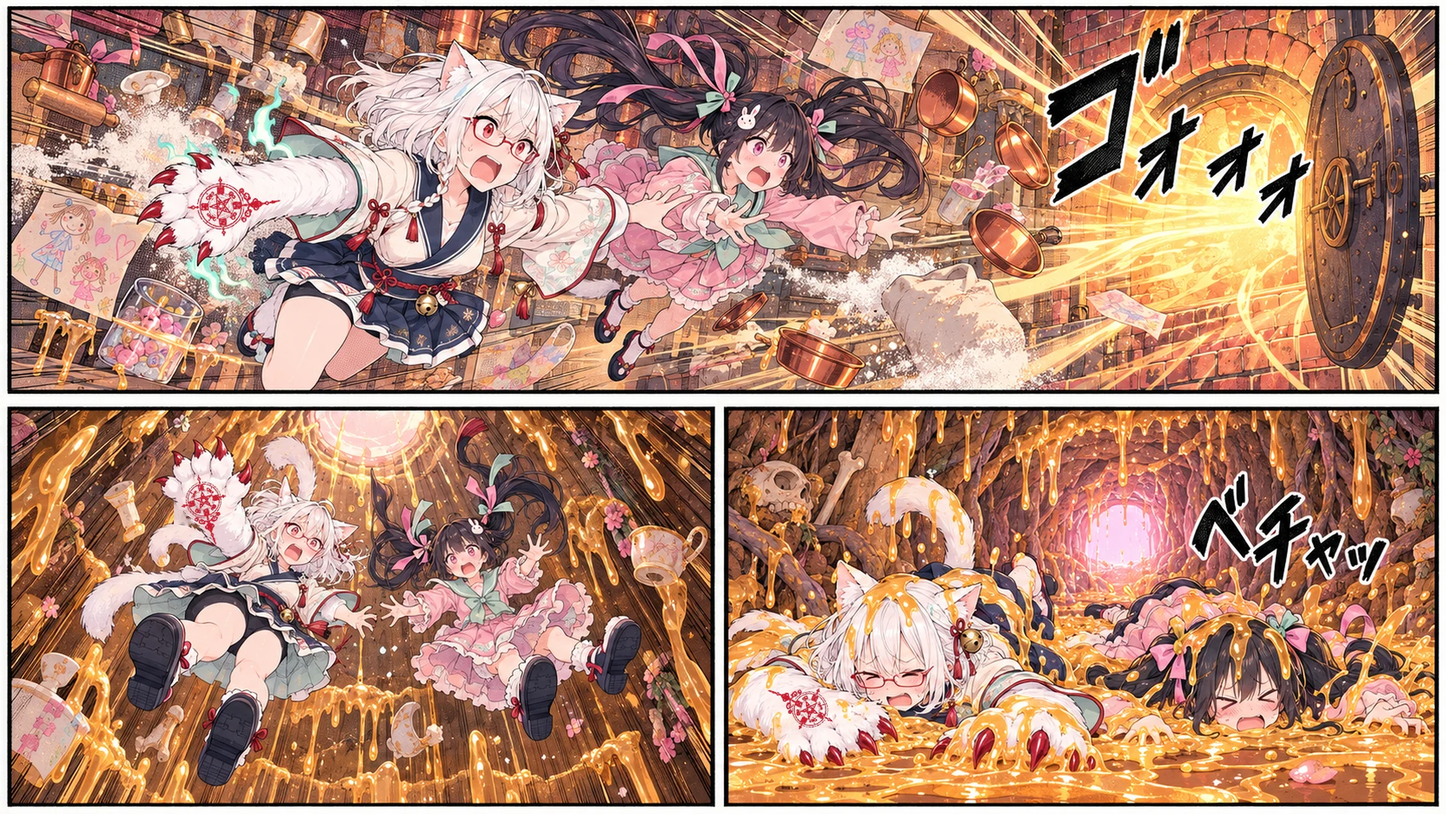
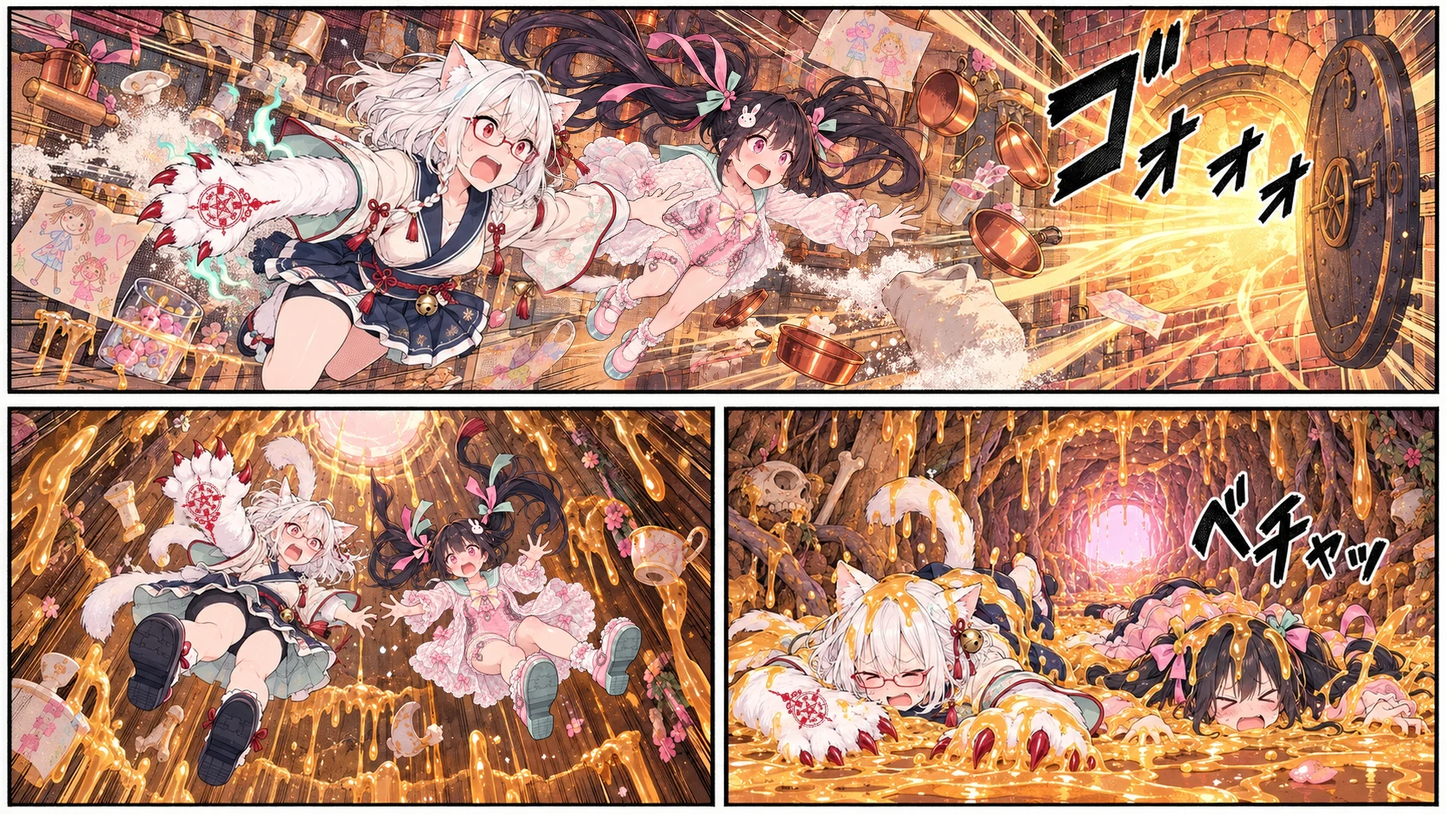
Batch 17 item 5: the gun girl in her own outfit on episode 1's comic pages (R60: 13 spots redrawn after her character sheet, pasted back over her box only)

diff --git a/tools/rounds/r60_import.py b/tools/rounds/r60_import.py
@@ -1,0 +1,57 @@
+"""Round 60 (tools/rounds/job_specs60.py): the gun girl redrawn in her own outfit on episode 1's comic pages. Each picked try is scaled
+back onto its crop and pasted over HER box only (feathered inward, so nothing outside her box changes: the cat paw's canonical seals,
+lettering, panel borders stay as they were); the PROTECT boxes inside hers keep the old pixels too. The pages are written straight
+over the game's comic/ep1p_<page>.webp, always starting from the pages as they were before this round (art/raw/r60/orig_*).
+usage: python -I tools/rounds/r60_import.py [--preview out_dir]   (preview: writes the pages as PNG there instead)"""
+import sys, pathlib, json
+import numpy as np
+from PIL import Image, ImageFilter
+sys.path[:0] = [str(pathlib.Path(__file__).resolve().parent)]
+from job_specs60 import FIX, PROTECT, boxes, panel_box, RAW, PAGES
+
+PICK = {"turn_0": "c", "photo_0": "a", "web_0": "b", "web_2": "a", "nursery_0": "c", "fall_0": "b", "fall_1": "b", "studio_0": "c",
+        "studio_1": "b", "merge_0": "a", "merge_3": "a", "boss_0": "a", "boss_2": "b"}
+FEATHER = 0.05   # of her box's smaller side
+
+
+def mask_for(name, crop):
+    (cx0, cy0, cx1, cy1), (hx0, hy0, hx1, hy1) = crop, boxes(name)[1]
+    w, h = cx1 - cx0, cy1 - cy0
+    page, idx, _ = FIX[name]
+    X0, Y0, X1, Y1 = panel_box(page, idx); pw, ph = X1 - X0, Y1 - Y0
+    m = Image.new("L", (w, h), 0)
+    f = max(4, round(FEATHER * min(hx1 - hx0, hy1 - hy0)))
+    # (no feather on a side that lies on the panel's edge: the old picture would show through there)
+    e = [0 if abs(hx0 - X0) < 3 else f, 0 if abs(hy0 - Y0) < 3 else f, 0 if abs(hx1 - X1) < 3 else f, 0 if abs(hy1 - Y1) < 3 else f]
+    inner = Image.new("L", (hx1 - hx0 - e[0] - e[2], hy1 - hy0 - e[1] - e[3]), 255)
+    m.paste(inner, (hx0 - cx0 + e[0], hy0 - cy0 + e[1]))
+    m = m.filter(ImageFilter.GaussianBlur(f / 2))
+    a = np.asarray(m).astype(np.float32) / 255
+    # the blur softens the panel-edge sides too: there, full strength out to the edge
+    if not e[0]: a[:, :max(0, hx0 - cx0) + f] = np.maximum(a[:, :max(0, hx0 - cx0) + f], (np.arange(h)[:, None] >= hy0 - cy0 + e[1]) & (np.arange(h)[:, None] < hy1 - cy0 - e[3]))
+    if not e[3]: a[hy1 - cy0 - f:hy1 - cy0, :] = np.maximum(a[hy1 - cy0 - f:hy1 - cy0, :], ((np.arange(w)[None, :] >= hx0 - cx0 + e[0]) & (np.arange(w)[None, :] < hx1 - cx0 - e[2])).astype(np.float32))
+    if not e[2]: a[:, hx1 - cx0 - f:hx1 - cx0] = np.maximum(a[:, hx1 - cx0 - f:hx1 - cx0], ((np.arange(h)[:, None] >= hy0 - cy0 + e[1]) & (np.arange(h)[:, None] < hy1 - cy0 - e[3])).astype(np.float32))
+    if not e[1]: a[hy0 - cy0:hy0 - cy0 + f, :] = np.maximum(a[hy0 - cy0:hy0 - cy0 + f, :], ((np.arange(w)[None, :] >= hx0 - cx0 + e[0]) & (np.arange(w)[None, :] < hx1 - cx0 - e[2])).astype(np.float32))
+    for (a0, b0, a1, b1) in PROTECT.get(name, []):
+        px0, py0, px1, py1 = X0 + a0 * pw - cx0, Y0 + b0 * ph - cy0, X0 + a1 * pw - cx0, Y0 + b1 * ph - cy0
+        a[max(0, int(py0)):int(py1), max(0, int(px0)):int(px1)] = 0
+    return a
+
+
+if __name__ == "__main__":
+    prev = sys.argv[sys.argv.index("--preview") + 1] if "--preview" in sys.argv else None
+    pages = {}
+    for name, v in PICK.items():
+        if not v: continue
+        page = FIX[name][0]
+        if page not in pages: pages[page] = np.asarray(Image.open(RAW / f"orig_ep1p_{page}.webp").convert("RGB")).astype(np.float32)   # (the page before this round)
+        crop, _ = boxes(name)
+        new = np.asarray(Image.open(RAW / f"{name}_{v}.png").convert("RGB").resize((crop[2] - crop[0], crop[3] - crop[1]), Image.LANCZOS)).astype(np.float32)
+        a = mask_for(name, crop)[..., None]
+        P = pages[page]; region = P[crop[1]:crop[3], crop[0]:crop[2]]
+        P[crop[1]:crop[3], crop[0]:crop[2]] = region * (1 - a) + new * a
+        print(name, v, crop)
+    for page, P in pages.items():
+        im = Image.fromarray(P.clip(0, 255).astype(np.uint8))
+        if prev: pathlib.Path(prev).mkdir(parents=True, exist_ok=True); im.save(pathlib.Path(prev) / f"ep1p_{page}.png"); continue
+        im.save(PAGES / f"ep1p_{page}.webp", quality=88, method=6); print("->", f"comic/ep1p_{page}.webp")

diff --git a/docs/ART.md b/docs/ART.md
@@ -8,7 +8,7 @@
   3. `python -I tools/rounds/rNN_import.py` → 进 `public/content/base/assets/` 和 `manifest.json`。
 - 被拒（`*.refused.txt`）的常见原因：
   - 地雷妹设计稿的半透明粉色连衣裙 + "流口水、脸红、踢腿"之类的描述，会触发安全过滤。
-  - 改法：去掉设计稿参考，写成"粉色荷叶边校服衬衫 + 薄荷水手领，fully clothed"，语气写 wholesome。
+  - 以前的改法是去掉设计稿参考、写成"粉色荷叶边校服衬衫 + 裙子"，结果漫画里她的衣服和设定不符（2026-10-18 用户第十七批）。**现在一律带上设定图**（`art/ref/pink_sheet.png` + `pink_poses.png`），衣服按 `tools/rounds/job_specs60.py` 的 `OUTFIT` 写（粉色连体衣 + 敞开的白色蕾丝长外套 + 薄荷水手领 + 黄色大蝴蝶结 + 腿环 + 白短袜 + 薄荷透明底的粉色厚底鞋，光腿，不是裙子、不是长袖衬衫；cute / wholesome / fully covered），每处多抽几张：R60 里 39 张被拒 7 张，其余都对得上设定。
 - Codex 有时会把图放大或挪位：用 `tools/fit_cutout.py` 搜缩放和偏移，对回参考图。
 - **怎么给 Codex 下要求**（2026-10-17 用户："Codex 是弱智的，你需要很明确、很强硬地给建议"）：
   - 把视角、构图、轮廓、比例、什么必须有、什么绝对不许有，一条条写死，不留"自由发挥"；
@@ -113,7 +113,7 @@
   - R32：掩体 12 种、贴花 24 个、六种小怪各 2 个新造型；
   - R33：战斗 HUD 修订效果图（等用户确认）；
   - R34：R23 三张小怪表去掉特效；
-  - R43：新 Boss「？？？」五阶段动作表（`boss/qq_*`）、四种新杂鱼各 3 造型（椅子蜈蚣 / 课本蛾 / 挂钟女 / 灭火器女妖）、飞行物、克系存钱罐（`item/pig`）、异变走廊（`st3/*_x`）、新开场漫画页；R44：打断 / 躲 / 击落的字和图形（`ui/wi_* wh_* ws_*`）和屏幕边缘饰条；R45：新 Boss 出场页、结尾页（格子手工定）；R46：金色靶心准星（`ui/ss_*`）、红色危险准星（`ui/sh_*`）；R47：四页漫画重画（规整方格、气泡 / 越肩镜头；用开场 c、中场 a、Boss b、结尾 c，`tools/rounds/r47_import.py`）；R48：纹身花纹边框和闪现字（用户否了：Codex 的字太丑，没进内容包）；R49：结算界面漫画杂志页效果图；R50：闪避 LED 警示条 12 种样式设计稿（游戏里程序画点阵，不用 Codex 的字）；R52：书包页四种风格方案（按 `tools/rounds/bag_wireframe.py` 的线框，无字）；R51：结算页插画（封面、两人方头像、存钱罐，全部无字，`tools/rounds/r51_import.py [a|b]` 导入；封面咒印 seal_fix 登记 res_cover_a / b）；R59：选关中间的大关小卡（序章 a、占位 a，第 1 话用参考图原来那张；`tools/rounds/r59_import.py` 把画裁成竖条、套进第 1 话那张卡的形状和锯齿白边，再按每章的颜色重新上色：灰度映射到暗 → 中 → 亮三色）；R58：第 1 话通关插画（用 c：另两张身上白色奶油滴太多，容易被误读）和四张失败插画（ko b、dragged b、flag a、loom a），同样无字、咒印标准化（`seal_fix.py r58_*`），`tools/rounds/r58_import.py` 导入成 `res/cover_ep1`、`res/lose_1..4`（一步最多 5 张参考图，超了工具直接拒）；
+  - R43：新 Boss「？？？」五阶段动作表（`boss/qq_*`）、四种新杂鱼各 3 造型（椅子蜈蚣 / 课本蛾 / 挂钟女 / 灭火器女妖）、飞行物、克系存钱罐（`item/pig`）、异变走廊（`st3/*_x`）、新开场漫画页；R44：打断 / 躲 / 击落的字和图形（`ui/wi_* wh_* ws_*`）和屏幕边缘饰条；R45：新 Boss 出场页、结尾页（格子手工定）；R46：金色靶心准星（`ui/ss_*`）、红色危险准星（`ui/sh_*`）；R47：四页漫画重画（规整方格、气泡 / 越肩镜头；用开场 c、中场 a、Boss b、结尾 c，`tools/rounds/r47_import.py`）；R48：纹身花纹边框和闪现字（用户否了：Codex 的字太丑，没进内容包）；R49：结算界面漫画杂志页效果图；R50：闪避 LED 警示条 12 种样式设计稿（游戏里程序画点阵，不用 Codex 的字）；R52：书包页四种风格方案（按 `tools/rounds/bag_wireframe.py` 的线框，无字）；R51：结算页插画（封面、两人方头像、存钱罐，全部无字，`tools/rounds/r51_import.py [a|b]` 导入；封面咒印 seal_fix 登记 res_cover_a / b）；R60：第 1 话八页漫画里地雷妹的衣服按设定图局部重画（13 处，每处 3 张；`tools/rounds/job_specs60.py` 只裁她周围一块交给 Codex 改衣服，`r60_import.py` 只把她那一块羽化贴回原页，猫爪咒印用保护框留原图，原页存在 `art/raw/r60/orig_*`）；R59：选关中间的大关小卡（序章 a、占位 a，第 1 话用参考图原来那张；`tools/rounds/r59_import.py` 把画裁成竖条、套进第 1 话那张卡的形状和锯齿白边，再按每章的颜色重新上色：灰度映射到暗 → 中 → 亮三色）；R58：第 1 话通关插画（用 c：另两张身上白色奶油滴太多，容易被误读）和四张失败插画（ko b、dragged b、flag a、loom a），同样无字、咒印标准化（`seal_fix.py r58_*`），`tools/rounds/r58_import.py` 导入成 `res/cover_ep1`、`res/lose_1..4`（一步最多 5 张参考图，超了工具直接拒）；
   - R42：序章教室（窗、门、后墙、黑板、地板、天花板，每张带 `_x` 异变版，异变时翻过来）、操场（教学楼正面两张：完好 / 被 Boss 压坏，四种侧面树和围网，地面，天空）、教室道具（课桌 4 种、讲台、扫除柜）、击杀拟声字（`fx/ono_*`，三张 3×3）、Boss 三形态全套部件（`boss/dc3_*`，共 63 张）、两页变身漫画（`comic/ep0p_tf12` / `tf23`）；R42b：三形态冷笑脸重出（`b3_face_cruel_b` 上下颠倒，不用）；
   - R39：NIKKE 式 HUD 效果图、Q 版装填大头、街机字（RELOAD! 等）、裂屏、R39 艺术字；R40：HUD 拆解；R41：猫娘设计字三套（seal / catbrush / sigil，`fx/gl2_*`）、序章四页整页漫画（`tools/comic_panels.py` 自动切格）；
   - R36：装填特写、气泡贴纸、序章漫画候选、Boss 按镜头的部位；R37：符箓毛笔字（`fx/fu_*`），重出被拒的漫画格；

diff --git a/docs/PLAN.md b/docs/PLAN.md
@@ -28,7 +28,8 @@
   - 门是这一小关要抵达的地方：一进来就看得见它在尽头，清场后走过去推开，开门特写用同一扇门，门后就是下一小关；
   - 小关之间不只漫画和开门：有的是一段不打的走廊 / 楼梯，两人走过去；几种衔接穿插着用；
   - 场景会变：障碍物越打越烂、被打穿；机关：吊桥、点灯照亮暗处、堵住不停出怪的口子然后另找出路……思路参考原作「用 A 道具解决 B 事件」，改成光枪能做的。
-- [ ] **5 漫画里地雷妹的衣服**：好几页把她画成了粉色长袖连衣裙（以前为了躲安全过滤，提示词故意写成校服衬衫 + 裙子），和设定图不符 → 带着设定图把她那部分局部重画，每处多抽几张挑；涉及 turn、photo、web、nursery、fall、studio、merge、boss。
+- [x] **5 漫画里地雷妹的衣服**：好几页把她画成了粉色长袖连衣裙（以前为了躲安全过滤，提示词故意写成校服衬衫 + 裙子），和设定图不符 → 带着设定图把她那部分局部重画，每处多抽几张挑；涉及 turn、photo、web、nursery、fall、studio、merge、boss。
+  - 结果：八页 13 处（R60），每处让 Codex 带着设定图只改她的衣服、各出 3 张挑一张，只贴回她那一块（别的地方、字、猫爪咒印都是原图）；现在每页都是设定里的粉色连体衣 + 白色蕾丝长外套 + 薄荷水手领 + 厚底鞋。开场、温室、结尾几页本来就对，没动。
 - [ ] **9 漫画承上启下**（DESIGN「漫画转场的规矩」）：每页不只交代"从哪走到哪"，要讲为什么：比如坑道尽头融化的两人分身是怎么来的、店里为什么突然冒怪。先把每页要讲的事列出来给分镜，再出图。
 
 ## 已做完：第十三批（2026-10-18 用户，DESIGN 对应条目已写）

diff --git a/docs/LOG.md b/docs/LOG.md
@@ -186,3 +186,4 @@
 - 用户第十七批（第一关暴露了短板：无聊）：怪不耐打、两人伤害像一样、受伤变漆黑；怪太远；怪太呆（要残血爆冲、越打越快、躲瞄准、幻影洗牌、成群飞的、摆设活过来）；演出单调（塌方掉下去、背后出怪扭头打、破墙破天花板闯进来、怪破墙逃走顺路追）；漫画里地雷妹衣服不符设定；门要通往下一小关、先出现在尽头、可用走廊衔接；允许难度，熟练度加攻击 / 暴击率 / 暴击倍率；关卡内拟声词被掐头去尾听不全；漫画要承上启下；地形和机关太死板（吊桥、照明火焰、堵出怪口另找出路，参考原作 A 道具解 B 事件）。写进 DESIGN 和 PLAN，按 8 → 1+7 → 2 → 3 → 4 → 6+10 → 5 → 9 的顺序做。
 - 第十七批第 8 项：拟声词不再掐头去尾：音节按台词修剪重新生成、整字放完再接下一个、解码裁头放宽到 0.003 / 20 ms。
 - 第十七批第 1 / 7 / 2 项：怪血约 ×2.5、成群飞的一枪一个；猫娘单发重射得慢、地雷妹单发 5.5；熟练度加伤害 / 暴击率 / 暴击倍率；受伤改成偏色半透明发光不发黑；怪的出场距离拉近、占屏变大。
+- 第十七批第 5 项：第 1 话漫画里地雷妹的衣服按设定图局部重画（R60，八页 13 处，39 张里被拒 7 张）；ART 记下以后画她一律带设定图、用 OUTFIT 那段写法。
